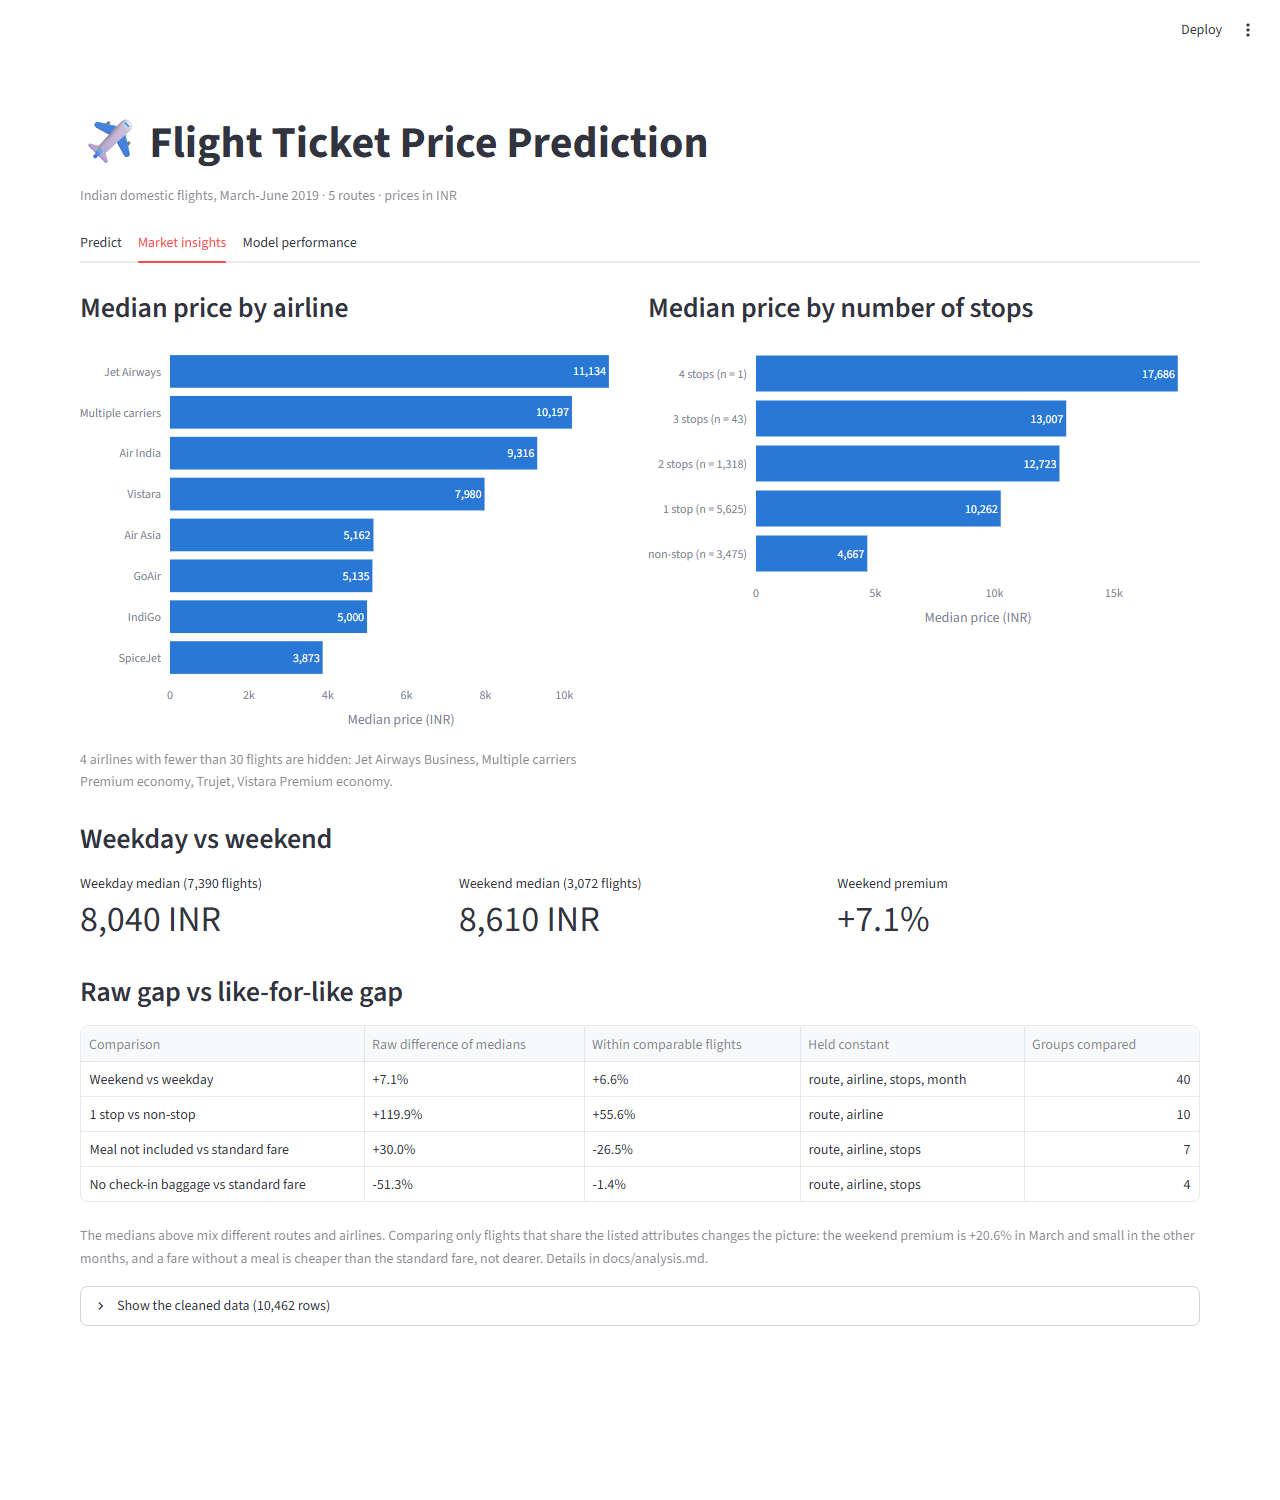
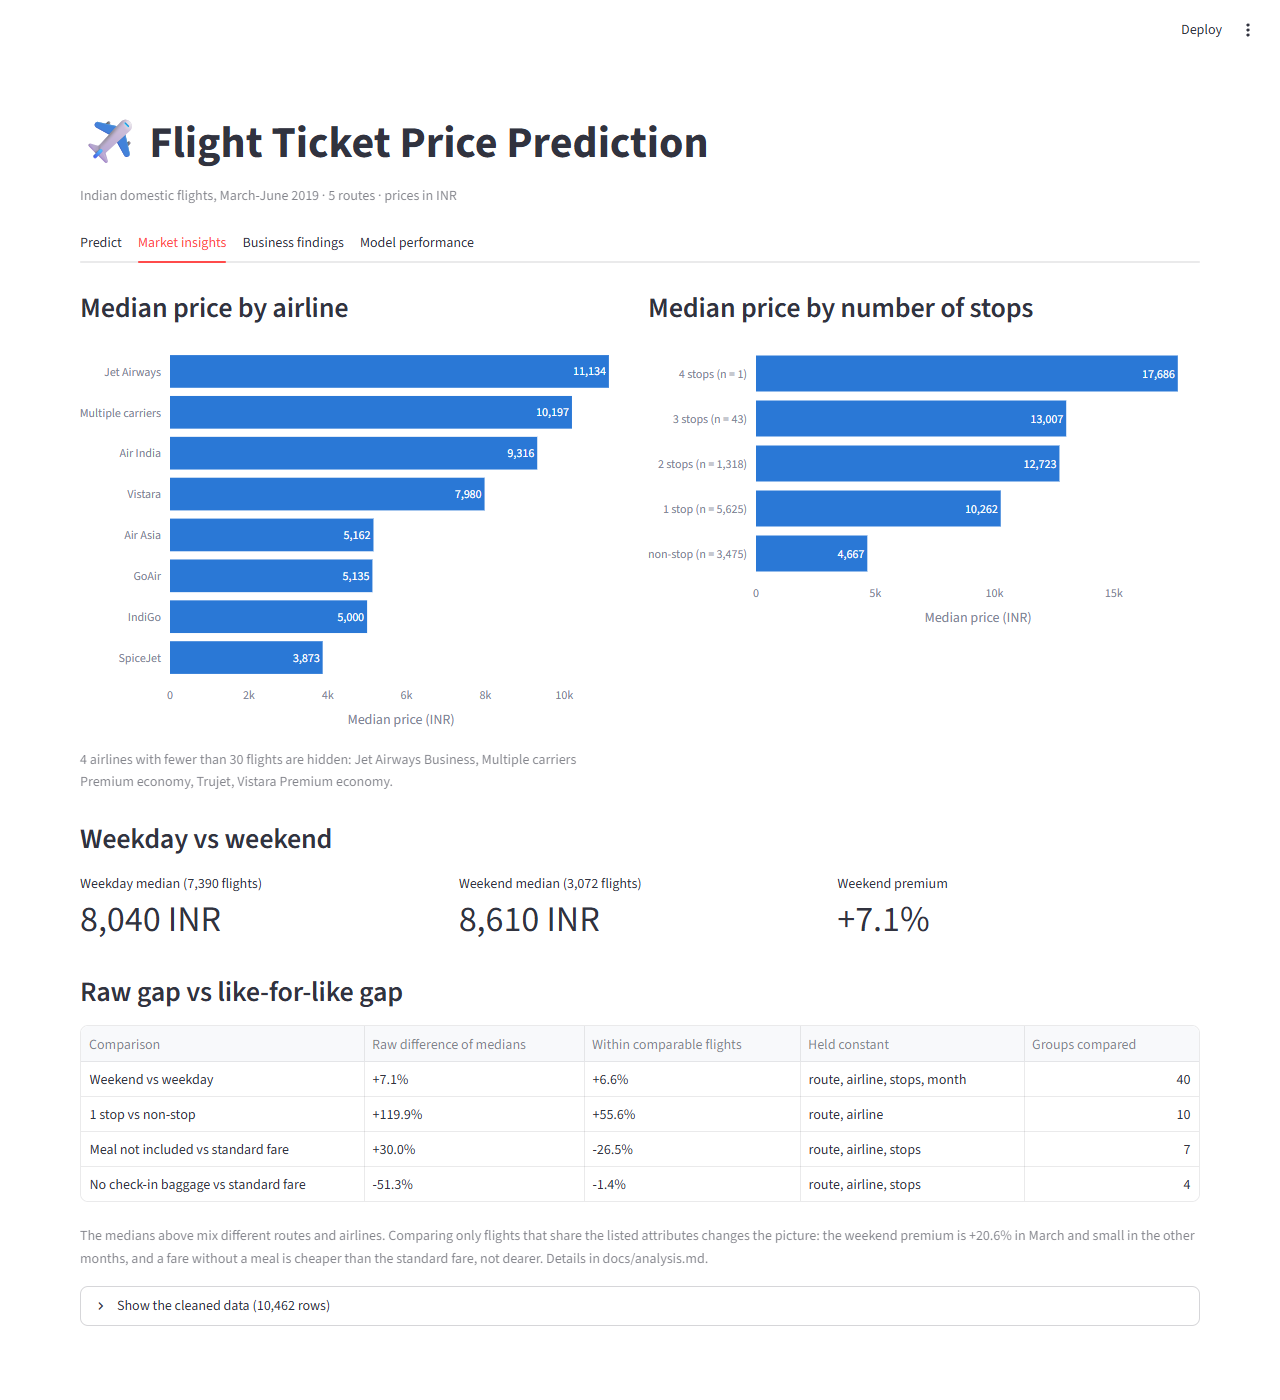
Add business summary, rewrite README intro, update screenshots
- docs/business_summary.md: one-page summary for non-technical readers
  (context, user, three findings with confidence intervals and sample
  sizes, recommendations, limitations), all figures from
  reports/findings.json and models/interval_metrics.json.
- README: intro rewritten as problem / approach / result with a link to
  the summary and a Live demo placeholder; price-range table, new
  commands and project structure.
- Screenshots of the four app tabs.

diff --git a/README.md b/README.md
@@ -1,12 +1,22 @@
 # Flight Ticket Price Prediction - Data Mining Assignment
 
-Predicts the price of Indian domestic flight tickets from itinerary details (airline, route, date, departure time, duration, stops, fare conditions). The repo contains a reproducible training pipeline, a feature ablation, tests, and a Streamlit app.
+**Problem.** A travel-agency employee holds a quote for a domestic flight in India and needs to know whether the price is cheap, fair or expensive compared with similar flights, and which alternative would cost less.
+
+**Approach.** A case study on 10,462 fares for March-June 2019 on five routes. One preprocessing function feeds an XGBoost price model and two quantile models that give a calibrated 80% price range; price comparisons hold airline, route and stops constant and report bootstrap confidence intervals.
+
+**Result.** The price model reaches R² 0.872 and MAE 681 INR on a hold-out test set, and the 80% price range contains 78.0% of test prices. On the same airline and route a one-stop flight cost 3,038 INR more than a non-stop one (95% CI 964 to 4,410; 10 groups). The Jet Airways fare without a meal cost 3,436 INR less than its standard fare (95% CI 1,830 to 6,132; 6 groups), although a naive comparison across airlines says it is dearer.
+
+One-page summary for non-technical readers: [docs/business_summary.md](docs/business_summary.md). The data are from 2019, so this is not advice on current prices.
+
+Live demo: <link>
 
 Every number in this README is printed by a script in this repo and can be regenerated with the commands below.
 
-| Predict | Market insights | Model performance |
-| --- | --- | --- |
-| ![Predict tab](docs/images/predict.png) | ![Market insights tab](docs/images/insights.png) | ![Model performance tab](docs/images/performance.png) |
+| Predict | Market insights |
+| --- | --- |
+| ![Predict tab](docs/images/predict.png) | ![Market insights tab](docs/images/insights.png) |
+| **Business findings** | **Model performance** |
+| ![Business findings tab](docs/images/business.png) | ![Model performance tab](docs/images/performance.png) |
 
 ---
 
@@ -43,6 +53,18 @@ The 21 test rows above the fence (16 of them Jet Airways) account for the gap be
 | 1. Airline + Source + Destination + Total_Stops + Duration_Minutes | 0.6567 ± 0.0297 |
 | 2. Set 1 + all date/time features | 0.8069 ± 0.0090 |
 | 3. Set 2 + Additional_Info (full model) | 0.9279 ± 0.0035 |
+
+**80% price range** (`python -m src.train_intervals`, stored in [models/interval_metrics.json](models/interval_metrics.json)). Two XGBoost quantile models (10% and 90%), calibrated with conformalized quantile regression on 1,660 held-out training rows.
+
+| Actual test price (INR) | Rows | Coverage | Mean width (INR) |
+| --- | --- | --- | --- |
+| 1,759 - 5,192 | 525 | 82.5% | 1,141 |
+| 5,192 - 8,040 | 526 | 76.2% | 2,326 |
+| 8,040 - 11,934 | 519 | 80.5% | 2,447 |
+| 11,934 - 54,826 | 523 | 72.8% | 2,819 |
+| All test rows | 2,093 | 78.0% | 2,182 |
+
+Coverage is below the 80% target in the top quarter, which contains the price outliers removed from training. The point prediction comes from a separate model and lies inside the range for 93.0% of test rows.
 
 ---
 
@@ -108,24 +130,31 @@ No. `Additional_Info` describes the fare conditions of the ticket ("In-flight me
 ## Project structure
 
 ```plaintext
-├── app.py                     # Streamlit app (3 tabs)
+├── app.py                     # Streamlit app (4 tabs)
 ├── src/
 │   ├── preprocess.py          # Cleaning + feature engineering shared by train and predict
 │   ├── train.py               # Model comparison, test evaluation, saves model + metrics
 │   ├── ablation.py            # Feature ablation
 │   ├── analysis.py            # Like-for-like comparisons, error analysis, time-based validation
-│   ├── predictor.py           # Loads the saved pipeline, predicts from user input
+│   ├── train_intervals.py     # Quantile models + conformal calibration for the 80% price range
+│   ├── business_analysis.py   # Findings in INR with bootstrap confidence intervals
+│   ├── data_audit.py          # Jet Airways dates, fare remarks, route coverage
+│   ├── predictor.py           # Loads the saved models, predicts and assesses a quote
 │   ├── predict_cli.py         # Terminal interface
 │   └── summary.py             # LaTeX tables generated from models/metrics.json
 ├── tests/                     # pytest: preprocessing and predictor
 ├── models/
 │   ├── flight_price_pipeline.joblib   # Fitted sklearn Pipeline (one-hot + XGBoost)
 │   ├── metrics.json                   # All metrics reported above
+│   ├── flight_price_intervals.joblib  # Quantile models for the price range
+│   ├── interval_metrics.json          # Coverage and width of the price range
 │   └── analysis.json                  # All numbers in docs/analysis.md
 ├── data/
 │   └── IndianFlightdata - Sheet1.csv  # Raw data used by the pipeline
 ├── notebook/                  # Original exploratory notebooks (see note below)
+├── reports/                   # findings.json, data_audit.json and CSV tables
 ├── docs/
+│   ├── business_summary.md    # One-page summary for non-technical readers
 │   ├── analysis.md            # Key findings
 │   └── images/                # App screenshots and analysis charts
 └── .github/workflows/ci.yml   # Tests + training on every push
@@ -150,6 +179,8 @@ python -m pytest -q               # tests
 python -m src.train               # compare models, save model + metrics
 python -m src.ablation            # feature ablation
 python -m src.analysis            # numbers and charts for docs/analysis.md
+python -m src.train_intervals     # 80% price range models + coverage metrics
+python -m src.business_analysis   # findings -> reports/findings.json and CSV tables
 python -m src.data_audit          # data audit -> reports/data_audit.json
 python -m src.summary             # LaTeX tables from metrics.json
 python -m src.predict_cli         # predict in the terminal
@@ -160,7 +191,7 @@ The trained model is committed, so the app and the CLI work right after cloning 
 
 ### Deploy on Streamlit Community Cloud
 
-1. Push the repo to GitHub (the app needs `app.py`, `requirements.txt`, `src/`, `models/` and `data/IndianFlightdata - Sheet1.csv`).
+1. Push the repo to GitHub (the app needs `app.py`, `requirements.txt`, `src/`, `models/`, `reports/` and `data/IndianFlightdata - Sheet1.csv`).
 2. Go to [share.streamlit.io](https://share.streamlit.io), sign in with GitHub and click **Create app**.
 3. Select this repository, the branch, and `app.py` as the main file.
 4. Under **Advanced settings**, choose Python 3.13 so that the pinned versions match the saved model.

diff --git a/docs/business_summary.md b/docs/business_summary.md
@@ -1,0 +1,33 @@
+# Business summary
+
+**Context.** This is a case study of the Indian domestic flight market in 2019: 10,462 fares for March-June 2019 on five routes, from a public dataset. It shows how fare data can support a pricing decision. It is not advice on today's prices.
+
+**User.** A travel-agency employee holding a quote for a customer, who needs to know whether the price is cheap, fair or expensive compared with similar flights, and which alternative would cost less.
+
+**Tool.** The app takes the flight details and the quoted price and returns a price range for comparable flights, with a label: cheap (below the range), fair (inside) or expensive (above). The range is designed to contain 80% of prices; on 2,093 flights the model had never seen it contained 78.0%. Its average width is 2,182 INR, from 1,141 INR for the cheapest quarter of tickets to 2,819 INR for the dearest quarter.
+
+## Three findings
+
+Each comparison is made between flights that are alike in the stated respects. The figure is the median of the differences across groups, and the 95% confidence interval shows how much it depends on which groups could be compared.
+
+1. **A connection costs more than a direct flight.** On the same airline and route, a one-stop flight cost 3,038 INR more than a non-stop one (95% CI 964 to 4,410 INR; 10 airline-route pairs, 4,598 flights). It was dearer in all 10 pairs, but by anything from 265 to 6,326 INR, so the size of the premium depends on the airline.
+
+2. **On Jet Airways, the fare without a meal was a much cheaper fare class.** On the same route and number of stops it cost 3,436 INR less than the standard fare (95% CI 1,830 to 6,132 INR less; 6 route-stops pairs, 3,634 flights). This is the gap between two Jet Airways fare classes, not the price of a meal. A naive comparison across all airlines says the opposite, that no-meal fares are 361 INR dearer on average, only because 1,830 of the 1,926 no-meal fares belong to Jet Airways, an expensive airline.
+
+3. **The cheapest option was a low-cost carrier flying direct, and the gap to the typical fare was large on the long routes.** SpiceJet had the lowest median price on four of the five routes and GoAir on the fifth. On Kolkata → Banglore the cheapest option (SpiceJet non-stop, median 3,873 INR, 248 flights) was 5,472 INR below the route median; on Delhi → Cochin (SpiceJet one stop, median 5,583 INR, 87 flights) it was 4,679 INR below. On Chennai → Kolkata the gap was only 253 INR.
+
+## Recommendations for the agency (as they would have applied in 2019)
+
+- Check every quote against the price range before passing it on, and look for an alternative when it is labelled expensive.
+- Offer the direct flight first: it was cheaper in every airline-route pair that could be compared.
+- When a customer wants Jet Airways, quote the no-meal fare class alongside the standard one.
+- Spend comparison effort where the cheapest option is furthest below the typical fare: Kolkata → Banglore and Delhi → Cochin.
+
+## Limitations
+
+- **2019 data.** Prices, airlines and regulation have changed; Jet Airways, the largest airline in the data, no longer flies.
+- **The date column is unreliable.** 2,600 Jet Airways rows are dated after the airline's last flight on 17 April 2019, so the dates may not be actual flight dates.
+- **Five routes only**, and each comparison uses only the groups with enough flights (10 and 6 groups), so the confidence intervals are wide.
+- **No booking date.** How far ahead a ticket is bought strongly affects its price and is not in the data, which is one reason the price range is wide.
+
+Sources of the figures: [reports/findings.json](../reports/findings.json) (`python -m src.business_analysis`), [models/interval_metrics.json](../models/interval_metrics.json) (`python -m src.train_intervals`), [reports/data_audit.json](../reports/data_audit.json) (`python -m src.data_audit`).
